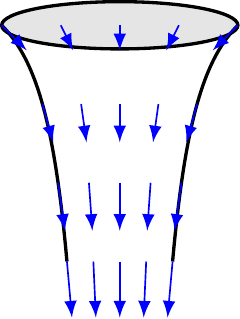
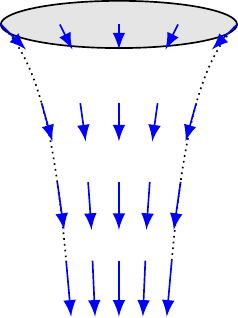
use dotted border lines

diff --git a/mechanics/water_jet/water_jet_inverted.tex b/mechanics/water_jet/water_jet_inverted.tex
@@ -11,20 +11,19 @@
 
 \begin{document}
 \begin{tikzpicture}[inverted,inverted]
-  \pgfmathsetmacro{\width}{2};
+  \pgfmathsetmacro{\width}{2}; % width of opening
   \pgfmathsetmacro{\xmax}{\width/2};
-  \pgfmathsetmacro{\xmin}{-\xmax};
   \pgfmathsetmacro{\ymax}{-0.5};
   \pgfmathsetmacro{\ymin}{-2.5};
   \pgfmathsetmacro{\nxarrows}{5}; % number of arrows in x (horizontal) direction
   \pgfmathsetmacro{\nyarrows}{4}; % number of arrows in y (vertica) direction
   \pgfmathsetmacro{\scaling}{-0.3};
   % outlet
-  \draw[thick,fill=gray!60] (0,{\ymax}) circle ({0.5*\width} and {0.1*\width});
+  \draw[fill=gray!60] (0,{\ymax}) circle ({0.5*\width} and {0.1*\width});
   % boundary
   \pgfmathsetmacro{\xminboundary}{sqrt((\xmax)^2*\ymax/\ymin)};
-  \draw[thick,domain=\xminboundary:\xmax] plot[samples=50] function{(\xmax/x)*(\xmax/x)*\ymax};
-  \draw[thick,domain=\xmin:-\xminboundary] plot[samples=50] function{(\xmax/x)*(\xmax/x)*\ymax};
+  \draw[densely dotted,domain=\xminboundary:\xmax] plot[samples=50] function{(\xmax/x)*(\xmax/x)*\ymax};
+  \draw[densely dotted,domain=-\xmax:-\xminboundary] plot[samples=50] function{(\xmax/x)*(\xmax/x)*\ymax};
   % vector field
   \foreach \NX in {1,...,{\nxarrows}} {%
     \foreach \NY in {1,...,{\nyarrows}} {%

diff --git a/mechanics/water_jet/water_jet.tex b/mechanics/water_jet/water_jet.tex
@@ -2,20 +2,19 @@
 
 \begin{document}
 \begin{tikzpicture}
-  \pgfmathsetmacro{\width}{2};
+  \pgfmathsetmacro{\width}{2}; % width of opening
   \pgfmathsetmacro{\xmax}{\width/2};
-  \pgfmathsetmacro{\xmin}{-\xmax};
   \pgfmathsetmacro{\ymax}{-0.5};
   \pgfmathsetmacro{\ymin}{-2.5};
   \pgfmathsetmacro{\nxarrows}{5}; % number of arrows in x (horizontal) direction
   \pgfmathsetmacro{\nyarrows}{4}; % number of arrows in y (vertica) direction
   \pgfmathsetmacro{\scaling}{-0.3};
   % outlet
-  \draw[thick,fill=gray!20] (0,{\ymax}) circle ({0.5*\width} and {0.1*\width});
+  \draw[fill=gray!20] (0,{\ymax}) circle ({0.5*\width} and {0.1*\width});
   % boundary
   \pgfmathsetmacro{\xminboundary}{sqrt((\xmax)^2*\ymax/\ymin)};
-  \draw[thick,domain=\xminboundary:\xmax] plot[samples=50] function{(\xmax/x)*(\xmax/x)*\ymax};
-  \draw[thick,domain=\xmin:-\xminboundary] plot[samples=50] function{(\xmax/x)*(\xmax/x)*\ymax};
+  \draw[densely dotted,domain=\xminboundary:\xmax] plot[samples=50] function{(\xmax/x)*(\xmax/x)*\ymax};
+  \draw[densely dotted,domain=-\xmax:-\xminboundary] plot[samples=50] function{(\xmax/x)*(\xmax/x)*\ymax};
   % vector field
   \foreach \NX in {1,...,{\nxarrows}} {%
     \foreach \NY in {1,...,{\nyarrows}} {%
